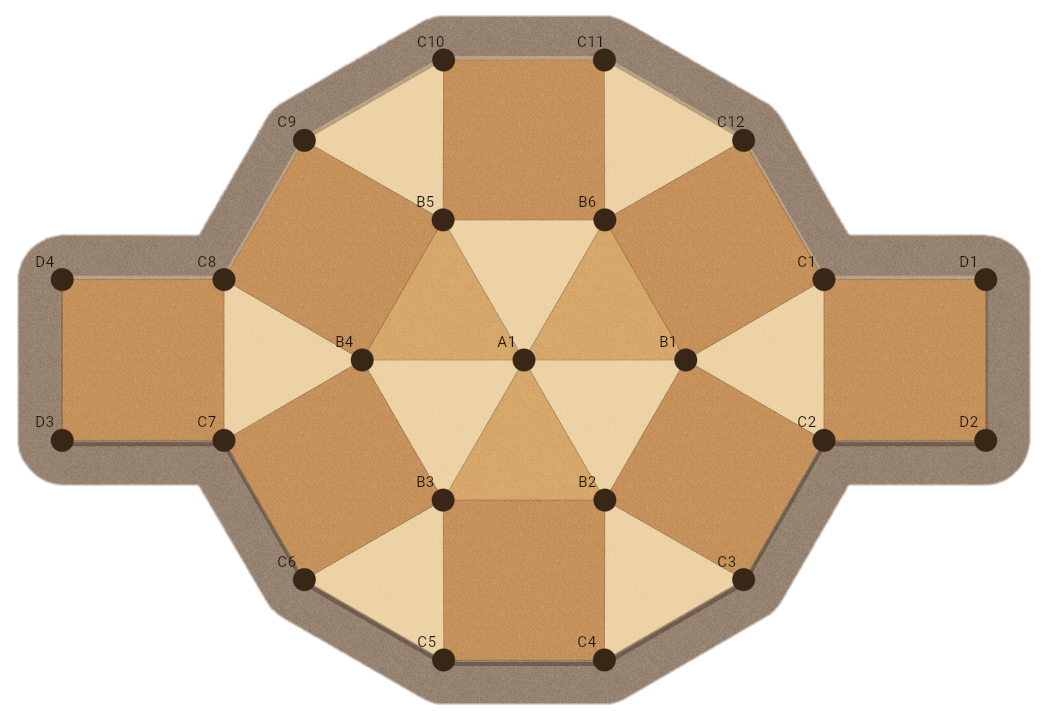
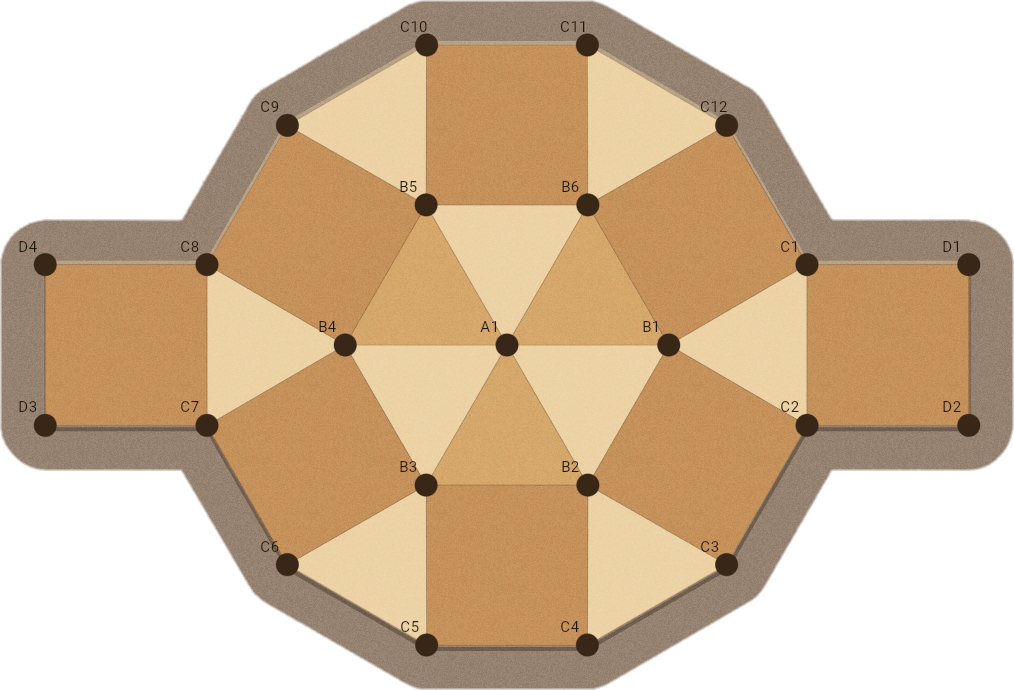
fix: la IA espera a que termine la animación
En IA-vs-IA (notorio en Desktop, con AI_MOVE_DELAY_MS=0) el motor aplicaba las jugadas al instante vía addMove, cambiando el gameState y re-disparando la IA sin esperar la animación. La cola de animación (moveChannel, buffer UNLIMITED) acumulaba toda la partida: la lista de movimientos se llenaba de golpe mientras el tablero quedaba muy atrás.

GameEffects ahora espera a que animationViewModel.pendingMoveCount vuelva a 0 (jugada previa animada) antes de pedir la siguiente jugada de IA. Es auto-adaptativo al ritmo real de la animación y no puede colgarse (el consumidor de la cola decrementa el contador en su finally). También hace que la IA espere a la animación de la jugada humana en Humano-vs-IA.

+ Update images

diff --git a/shared/src/commonMain/kotlin/com/agustin/tarati/features/game/GameEffects.kt b/shared/src/commonMain/kotlin/com/agustin/tarati/features/game/GameEffects.kt
@@ -101,6 +101,7 @@ import com.agustin.tarati.ui.layout.LocalScreenLayout
 import com.agustin.tarati.ui.layout.ScreenLayout
 import com.agustin.tarati.ui.theme.TaratiLogo
 import kotlinx.coroutines.delay
+import kotlinx.coroutines.flow.StateFlow
 import kotlinx.coroutines.flow.first
 import org.koin.compose.koinInject
 import org.koin.compose.viewmodel.koinViewModel
@@ -127,6 +128,12 @@ fun GameEffects(
     gameState: GameState,
     aiThinkingDependencies: AiThinkingDependencies,
     onAITurn: (gameState: GameState, difficulty: Difficulty) -> Unit,
+    /**
+     * Movimientos aún encolados/en curso en el pipeline de animación del tablero
+     * ([IBoardAnimationViewModel.pendingMoveCount]). El disparo de la IA se espera hasta
+     * que llegue a 0 para que la IA no se adelante a la animación (ver el efecto de abajo).
+     */
+    animationPendingMoveCount: StateFlow<Int>,
     onBoardOrientationChanged: (BoardOrientation) -> Unit,
     isTutorialActive: Boolean,
     tutorialState: TutorialState,
@@ -167,6 +174,13 @@ fun GameEffects(
         }
 
         if (gameState.isGameOver(aiEngine.positionHistory)) return@LaunchedEffect
+
+        // Ritmo IA↔animación: esperar a que la jugada anterior termine de animarse antes de
+        // pedir la siguiente jugada de IA. El motor (rápido en Desktop) corría hasta el final de
+        // la partida mientras la cola de animación seguía drenando, así que la lista de
+        // movimientos se llenaba de golpe y el tablero quedaba muy atrás. pendingMoveCount siempre
+        // vuelve a 0 (el consumidor de la cola decrementa en su finally), así que no puede colgar.
+        animationPendingMoveCount.first { it == 0 }
 
         // WASM: give the animation system time to render the previous move before
         // the AI search runs. AiThinkingDependencies does not include isAIThinking, so

diff --git a/shared/src/commonMain/kotlin/com/agustin/tarati/features/game/GameScreen.kt b/shared/src/commonMain/kotlin/com/agustin/tarati/features/game/GameScreen.kt
@@ -444,6 +444,7 @@ fun GameScreen(
             orientationSide = onlinePlayerSide,
         ),
         onAITurn = { gameState, difficulty -> aiViewModel.requestAIMove(gameState, difficulty) },
+        animationPendingMoveCount = animationViewModel.pendingMoveCount,
         onBoardOrientationChanged = viewModel::updateBoardOrientation,
         isTutorialActive = screenState.isTutorialActive,
         tutorialState = tutorialState,
